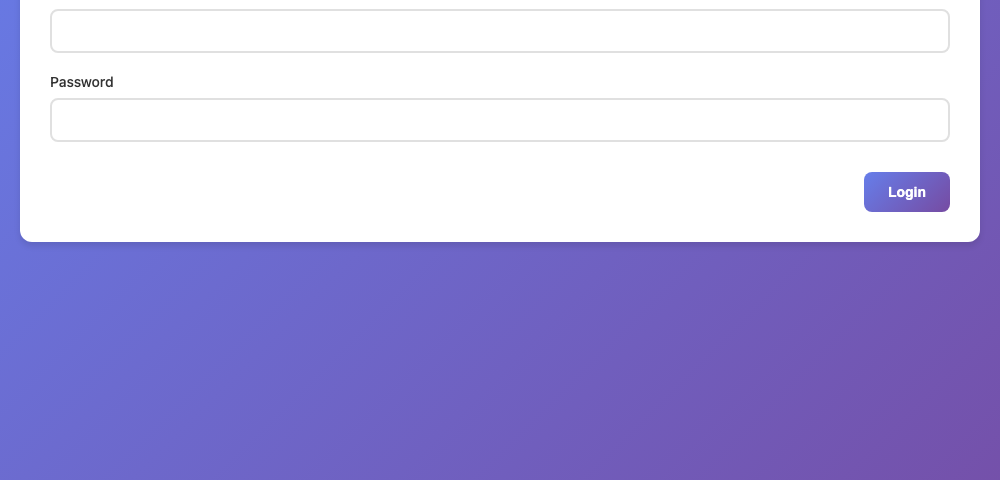
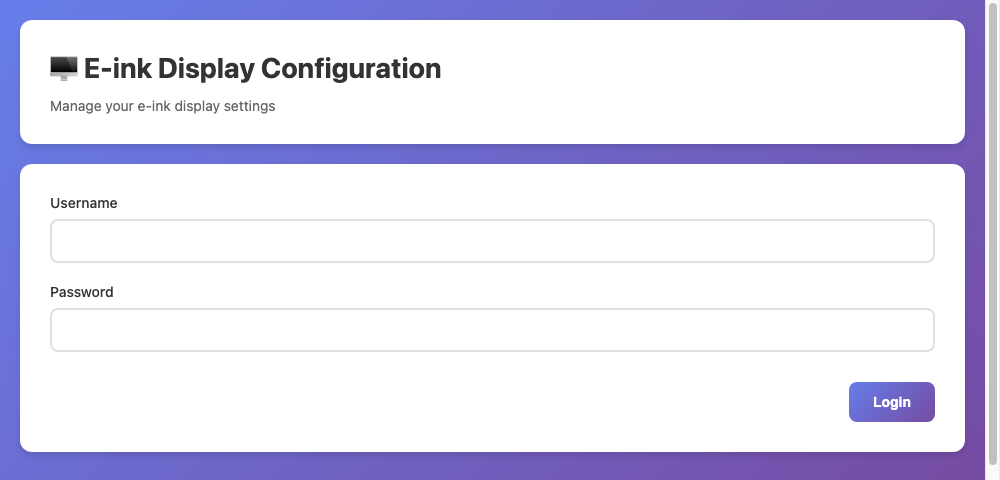
Rework README to weave v13/v14 changes into the original story, fix screenshots
Removed the separate "What It Does Now" / feature-bullet section and
"Getting Help/Contributing" block added during the v14 README rewrite -
those broke from the original first-person narrative and history/version
info already lives in ChangeLog.md/Dev Log.md. New functionality (4-screen
schedule, boot checklist, web config panel) is now described inline as
part of the original story, and the disclaimers section absorbed the
"where to get help" pointers in the same casual voice as the rest.

Also dropped the daytime placeholder screenshot (it's just the words
"Day time screen" on a blank page - not worth a slot) and re-captured
the web config login screenshot, which was badly cropped (missing the
username field and page header).

diff --git a/README.md b/README.md
@@ -11,6 +11,16 @@ This project was a fun project that I keep tweaking but what I was trying to do 
 2) In addition because they take the train (subway / MRT) after the bus they need to know if there any distruptions along the route.
 3) Once they have gone I dont need the display to show the bus times any more but rather some useful information, so I chose to display a dashboard from my homeassistant instance that shows weather for today, the 5 day outlook and also the calendar entries for today and the next day
 
+Since then it's grown a fair bit past that original three-screen idea. I added journey-time estimates (v13 — not just "when's the bus" but "what time will they actually get there"), then went through a bigger rewrite (v14) once the single wake/sleep window started feeling too rigid: the display now cycles through **four** screens on their own independent schedules instead of just switching between "school mode" and the HA dashboard.
+
+- The **bus/train screen** is the original idea above, now only shown on days it's actually needed — it checks two Home Assistant sensors each morning to work out if it's a school day, and skips itself entirely on weekends/holidays.
+- There's a proper **overnight sleep screen** now too — just a moon icon and "next wake" time, no network calls at all, so it's not needlessly polling APIs at 2am.
+- A **daytime placeholder** screen fills the gap on non-school days for now — it's genuinely just a blank page with "Day time screen" on it at the moment, real content for that is still on the to-do list.
+- The old **Home Assistant dashboard screenshot** (the weather/calendar view from point 3 above) still exists, it's just dropped to the lowest priority now — it only shows if none of the other three screens claim that time slot.
+- There's also a proper **boot checklist** now (network / internet / LTA API / Home Assistant, each with a tick or cross) instead of a plain "System Starting..." message, so I can tell at a glance what's actually working when it powers on.
+
+The biggest addition though is a **web config panel** — a password-protected page at `http://<pi-ip>:5000` where I can change settings and edit the four screens' schedule from my phone, with conflict warnings if two windows overlap, instead of SSHing in and hand-editing files every time I want to tweak something.
+
 #### Some pictures:
 Bus Stop and Train display with weather
 
@@ -19,6 +29,20 @@ Bus Stop and Train display with weather
 Alternate display from HomeAssistant once not in bus monitoring period
 
 <img src="images/IMG_2601.jpeg" height=400 width=300>
+
+The new boot checklist (left) and the overnight sleep screen (right):
+
+<img src="images/screen_boot.png" width=380> <img src="images/screen_sleep.png" width=380>
+
+And the web config panel — login, settings, and the schedule editor with conflict warnings:
+
+<img src="images/webconfig_login.png" width=480>
+
+<img src="images/webconfig_settings.png" width=480>
+
+<img src="images/webconfig_schedule.png" width=480>
+
+(These three web panel shots use sample/placeholder data, not my actual configuration.)
 
 ---
 
@@ -38,59 +62,28 @@ Here is the mount using the IKEA picture frame
 ### Software
   1) All written in Python, using the Waveshare e-ink libraries plus the LTA DataMall, OneMap/Google, and Home Assistant APIs
   2) You will need an API key to access the data from the LTA via their DataMall, and (optionally) an API key from OneMap or Google Maps for journey-time estimates
-  3) A running Home Assistant instance is optional but unlocks weather, day-type-aware scheduling (school day vs. work day vs. off day), and the dashboard-screenshot screen
+  3) A running Home Assistant instance is optional but unlocks weather, the school-day/work-day scheduling, and the dashboard-screenshot screen
   4) If you want the HA dashboard screenshot screen, install the Graphite Theme and Puppeteer add-on on your Home Assistant instance
 
 ### Installation
 
-**Full step-by-step instructions are in [How-to.md](How-to.md)** — clone, install dependencies, configure `.env` and the screen schedule, deploy both systemd services (the display + the web config panel), and verify it's working. That's now the canonical setup guide; the rest of this README is the project's backstory and roadmap.
+**Full step-by-step instructions are in [How-to.md](How-to.md)** — clone, install dependencies, configure `.env` and the screen schedule, deploy both systemd services (the display + the web config panel), and verify it's working. That's the canonical setup guide now; this README is the backstory.
 
 Short version:
 1) Clone this repo onto your Pi
 2) Install dependencies (`pigpio` via apt, everything else via `pip3 install -r requirements.txt --break-system-packages`)
 3) Copy `.env.example` → `.env` and fill in your LTA DataMall API key, bus stop code, and (optionally) Home Assistant/routing details
-4) Deploy `systemd/bus_display.service` (the display) and `systemd/web_config.service` (a browser-based settings panel at `http://<pi-ip>:5000`, no SSH needed for day-to-day config changes)
+4) Deploy `systemd/bus_display.service` (the display) and `systemd/web_config.service` (the browser-based settings panel, no SSH needed for day-to-day config changes)
 5) If you want the HA dashboard screen, set up your dashboard and the Puppeteer add-on per its own GitHub instructions
 
 ### Disclaimers
 1) This was a weekend project and i am not a professional software engineer !
 2) Yes there is optimisation to this code - happy for suggestions etc but will be updating as and when I get the time
+3) If something's not working, `journalctl -u bus_display -f` and `journalctl -u web_config -f` are the first place I'd look, and the troubleshooting section in [How-to.md](How-to.md) covers the common gotchas
+4) The deeper docs ([architecture.md](architecture.md), [design.md](design.md), [specifications.md](specifications.md), [screen_layout.md](screen_layout.md)) go into more detail than most people will want, but they're there if you're curious how or why something works the way it does
+5) `todo.md` has everything I know is still missing or half-baked (real content for the daytime screen, weather/calendar fallbacks for people without Home Assistant, and more)
 
 ---
-
-### What It Does Now
-
-The display cycles through four screens on independent schedules (configurable via the web UI or `app/schedule_config.json`):
-- **Bus/train view** — live bus arrivals, MRT disruption alerts, weather, and journey-time estimates. Only shows on school days (resolved automatically from Home Assistant, if configured).
-- **Sleep screen** — a minimal overnight screen, no network calls, lowest power draw.
-- **Daytime placeholder** — shown on non-school days for now (real content is still on the roadmap, see below).
-- **HA dashboard screen** — an optional screenshot of a Home Assistant dashboard (weather, calendar, etc.), shown in any schedule gap the other three don't claim.
-
-A password-protected web config panel (`http://<pi-ip>:5000`) lets you edit settings and the schedule from a browser, with live conflict-checking and no SSH required for most changes.
-
-#### The new screens
-
-<img src="images/screen_boot.png" width=400> <img src="images/screen_sleep.png" width=400>
-
-*Boot connectivity checklist (left) and the overnight sleep screen (right) — both purely local, no network fetch for the sleep screen.*
-
-<img src="images/screen_daytime.png" width=400>
-
-*The daytime placeholder screen — shown on non-school days for now, real content still on the roadmap.*
-
-#### The web config panel
-
-<img src="images/webconfig_login.png" width=500>
-
-<img src="images/webconfig_settings.png" width=500>
-
-*Settings page — fields marked "applies live" (like `FORCE_SCREEN`) take effect within moments; everything else needs the "Restart Service" button.*
-
-<img src="images/webconfig_schedule.png" width=500>
-
-*Schedule editor — shows precedence conflicts before you save, so overlapping windows don't surprise you.*
-
-(Screenshots above use sample/placeholder data, not a real deployment's actual configuration.)
 
 ### Future Enhancement Ideas
 
@@ -102,6 +95,7 @@ Potential features for future versions (see `todo.md` in this repo for the fulle
 - [ ] Weather fallback to a public API when Home Assistant isn't available
 - [ ] Real content for the daytime placeholder screen (currently just says "Day time screen")
 - [ ] A more modular/pluggable screen architecture (rolling screens, custom image slideshows, multiple HA dashboard targets)
+- [ ] A font chooser, and a curated set of other e-ink-friendly fonts to pick from
 - [✅] ~~Web interface for configuration~~ (Added in v14.0 — session auth, live schedule editor, one-click restart)
 - [✅] ~~Commute time estimates~~ (Added in v13.0)
 - [✅] ~~Accessibility-optimized typography~~ (Added in v12.0)
@@ -128,8 +122,4 @@ Potential features for future versions (see `todo.md` in this repo for the fulle
 
 -----
 
-### Getting Help / Contributing
-
-- Setup issues: see [How-to.md](How-to.md)'s troubleshooting section first, then `journalctl -u bus_display -f` / `journalctl -u web_config -f` for live logs.
-- Deeper questions about how something works: [architecture.md](architecture.md), [design.md](design.md), [specifications.md](specifications.md), and [screen_layout.md](screen_layout.md) cover structure, rationale, behavior, and exact pixel layout respectively.
-- What's planned but not built yet: `todo.md`.
+*For the full history of every version, see `Dev Log.md` and `ChangeLog.md`.*